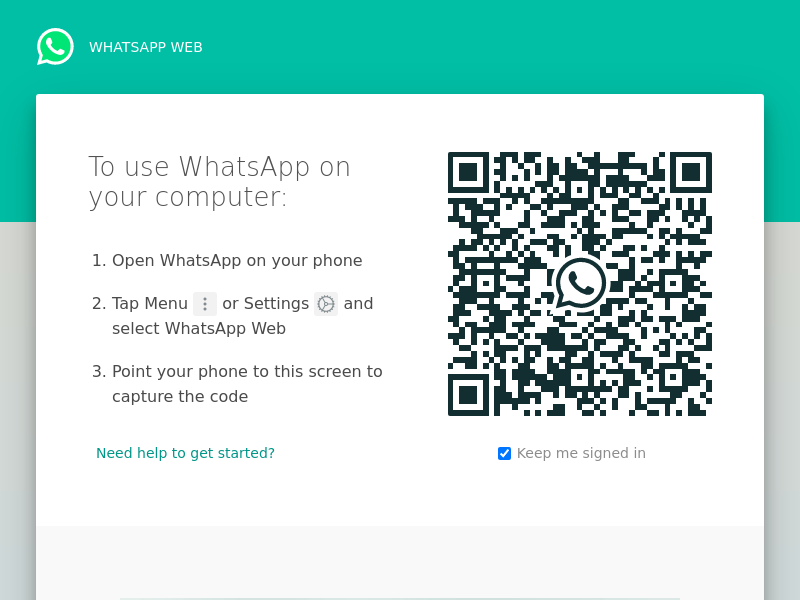
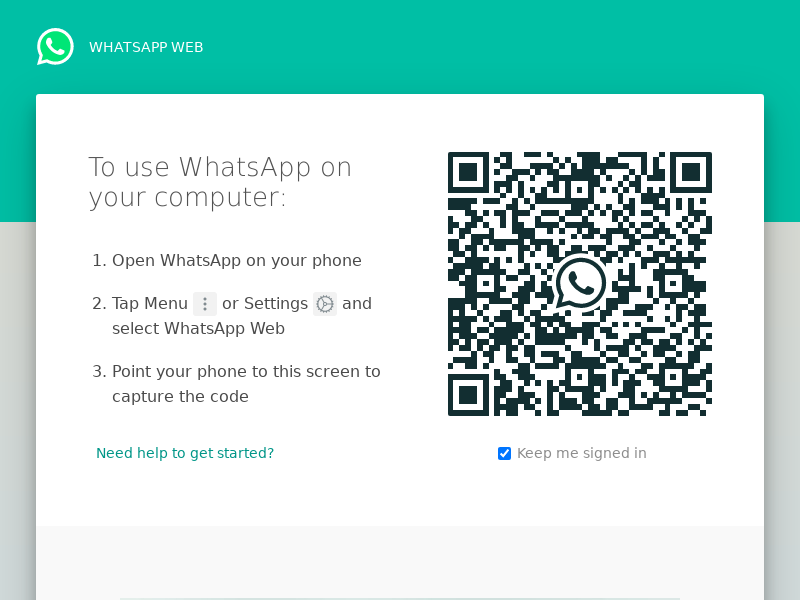
🏕🗾 Checkpoint ./example.js:23794624/278

diff --git a/example.js b/example.js
@@ -24,11 +24,12 @@ const events = (require("events").EventEmitter.defaultMaxListeners = 1000);
 let sessionCfg;
 if (fs.existsSync(SESSION_FILE_PATH)) {
   sessionCfg = require(SESSION_FILE_PATH);
+  console.log(sessionCfg);
 }
 let qrCode;
 const client = new Client({
   restartOnAuthFail: true,
-  authTimeoutMs: 450000,
+  authTimeoutMs: 95000,
   takeoverOnConflict: true,
   takeoverTimeoutMs: 60000,
   puppeteer: {
@@ -70,10 +71,12 @@ const saveData = async function(data) {
 };
 //
 io.on("connection", async socket => {
+  console.log(io.engine.clientsCount + " client connected");
   // status = await saveData({ data: "abay" });
   // console.log(status);
   io.emit("client", "client connected");
   socket.on("disconnect", () => {
+    console.log(io.engine.clientsCount + " disconect connected");
   });
 });
 
@@ -84,6 +87,7 @@ const listener = http.listen(process.env.PORT, function() {
 
 client.on("qr", qr => {
   // Generate and scan this code with your phone
+  console.log("QR RECEIVED", qr);
   qrCode = qr;
   client.pupPage.screenshot({ path: __dirname + "/public/qr.png" });
   qrcode.toDataURL(qr, (err, url) => {
@@ -310,6 +314,7 @@ app.get("/status", async function(req, res) {
     const statuswa = await client
       .getState()
       .then(response => {
+        console.log(response);
         res.status(200).json({
           status: true,
           response: response
